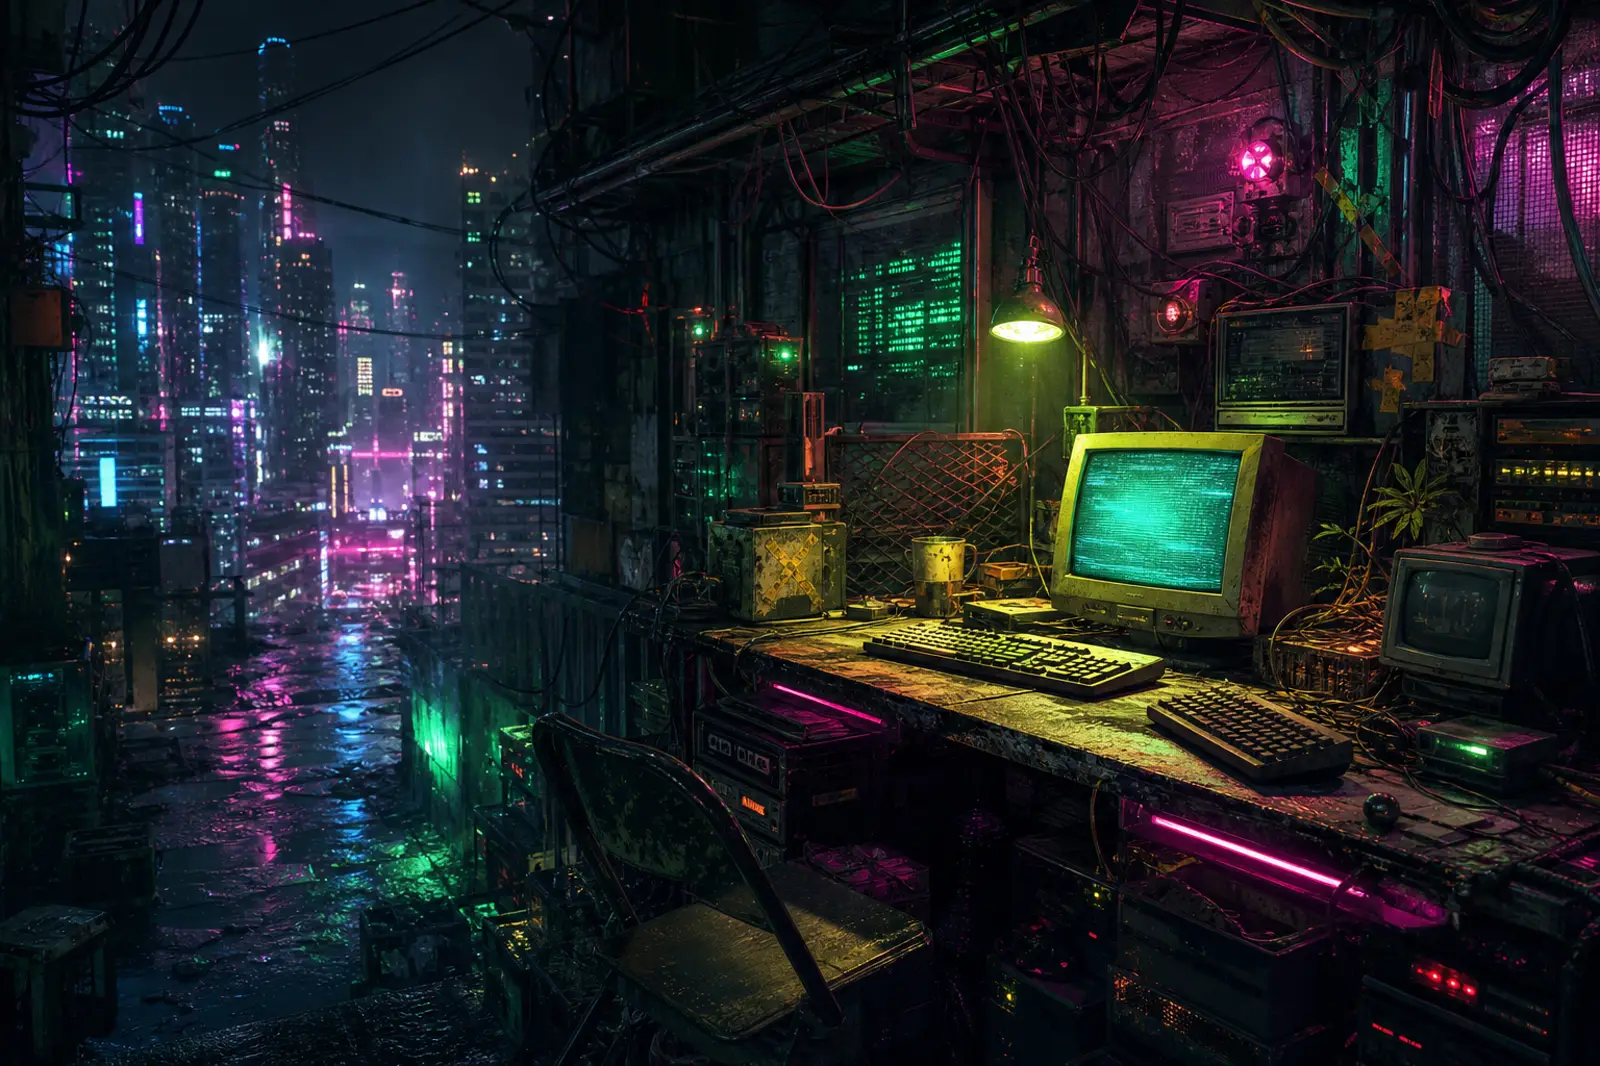
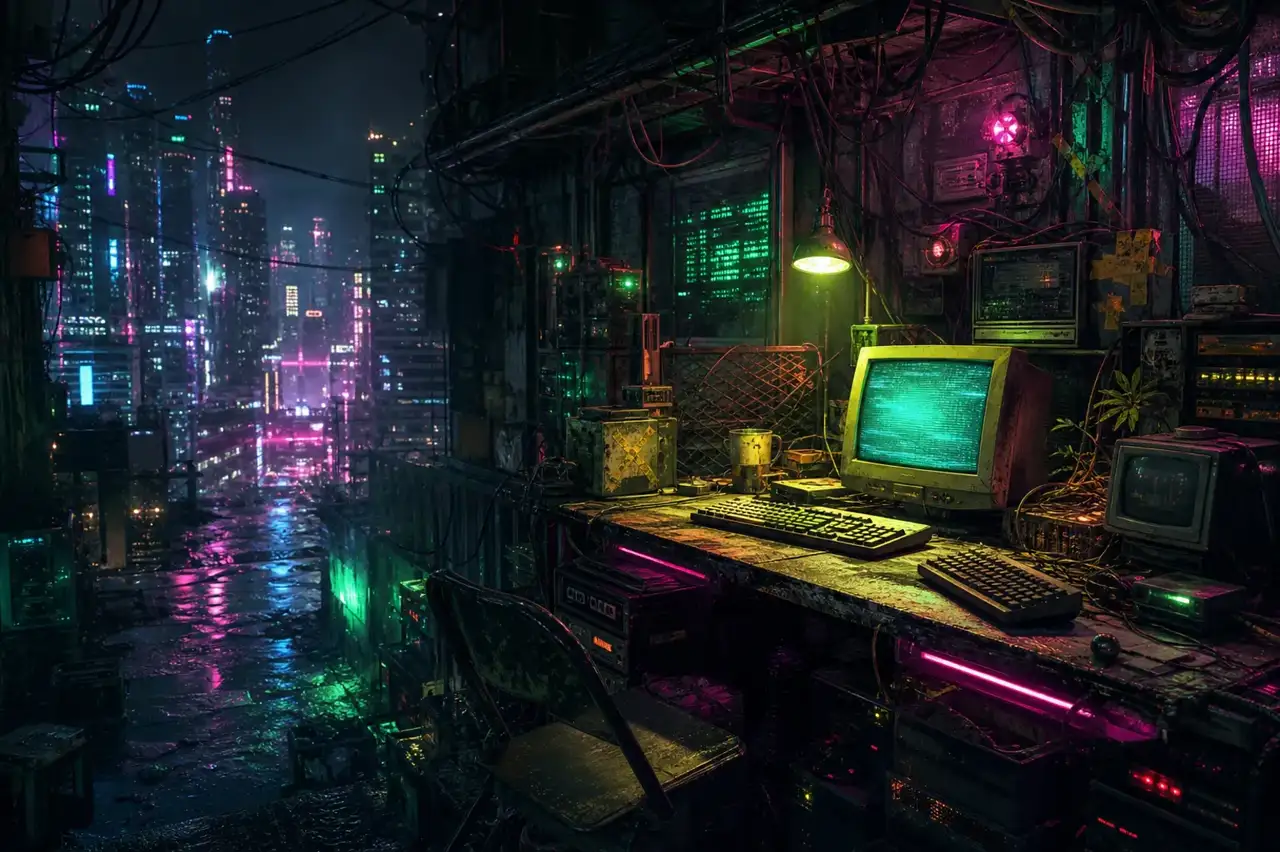
some optimization

Changed region(s): [[0.5312, 0.5798, 0.6875, 0.6408], [0.75, 0.6408, 0.7812, 0.6714]]

diff --git a/app/page.js b/app/page.js
@@ -1,19 +1,3 @@
-"use client";
-
-import { useEffect, useRef, useState } from "react";
-
-const logLines = [
-  "booting TemiNet personal uplink...",
-  "mounting /projects: success, mostly",
-  "scanning abandoned folders: too many",
-  "loading sarcasm module: online",
-  "checking Cloudflare Pages: please clap",
-  "routing bad ideas through neon filter",
-  "warning: confidence exceeds test coverage",
-  "deploy target: static files with delusions",
-  "status: operational enough",
-];
-
 const tickerItems = [
   "signal acquired",
   "deploy gods unimpressed",
@@ -25,95 +9,21 @@ const tickerItems = [
   "coffee dependency unresolved",
 ];
 
+const terminalLines = [
+  "> booting TemiNet personal uplink...",
+  "> mounting /projects: success, mostly",
+  "> loading sarcasm module: online",
+  "> checking Cloudflare Pages: please clap",
+  "> warning: confidence exceeds test coverage",
+  "> status: operational enough",
+];
+
 export default function Home() {
-  const canvasRef = useRef(null);
-  const bootTime = useRef(Date.now());
-  const [year, setYear] = useState("");
-  const [uptime, setUptime] = useState("calculating regret");
-  const [feed, setFeed] = useState([`> ${logLines[0]}`]);
-  const [telemetry, setTelemetry] = useState({ signal: 91, cope: 64, bugs: "??" });
-
-  useEffect(() => {
-    setYear(String(new Date().getFullYear()));
-
-    const uptimeTimer = window.setInterval(() => {
-      const elapsedSeconds = Math.max(0, Math.floor((Date.now() - bootTime.current) / 1000));
-      const minutes = Math.floor(elapsedSeconds / 60);
-      const seconds = String(elapsedSeconds % 60).padStart(2, "0");
-      setUptime(`${minutes}:${seconds} since refresh`);
-    }, 1000);
-
-    let feedIndex = 1;
-    const feedTimer = window.setInterval(() => {
-      const nextLine = `> ${logLines[feedIndex % logLines.length]}`;
-      setFeed((currentFeed) => [...currentFeed.slice(-8), nextLine]);
-      feedIndex += 1;
-    }, 1500);
-
-    const telemetryTimer = window.setInterval(() => {
-      setTelemetry({
-        signal: 88 + Math.floor(Math.random() * 10),
-        cope: 52 + Math.floor(Math.random() * 35),
-        bugs: Math.floor(Math.random() * 9),
-      });
-    }, 1800);
-
-    return () => {
-      window.clearInterval(uptimeTimer);
-      window.clearInterval(feedTimer);
-      window.clearInterval(telemetryTimer);
-    };
-  }, []);
-
-  useEffect(() => {
-    const canvas = canvasRef.current;
-    const context = canvas?.getContext("2d");
-
-    if (!canvas || !context || window.matchMedia("(prefers-reduced-motion: reduce)").matches) {
-      return undefined;
-    }
-
-    let frameId = 0;
-    let rainColumns = [];
-
-    function resizeRain() {
-      const pixelRatio = window.devicePixelRatio || 1;
-      canvas.width = Math.floor(window.innerWidth * pixelRatio);
-      canvas.height = Math.floor(window.innerHeight * pixelRatio);
-      context.setTransform(pixelRatio, 0, 0, pixelRatio, 0, 0);
-
-      const columnCount = Math.ceil(window.innerWidth / 18);
-      rainColumns = Array.from({ length: columnCount }, () => Math.random() * window.innerHeight);
-    }
-
-    function drawRain() {
-      context.fillStyle = "rgba(5, 6, 10, 0.08)";
-      context.fillRect(0, 0, window.innerWidth, window.innerHeight);
-      context.fillStyle = "rgba(184, 255, 61, 0.65)";
-      context.font = "14px Cascadia Mono, Consolas, monospace";
-
-      rainColumns.forEach((y, index) => {
-        const character = Math.random() > 0.5 ? "1" : "0";
-        context.fillText(character, index * 18, y);
-        rainColumns[index] = y > window.innerHeight + 20 ? 0 : y + 18;
-      });
-
-      frameId = window.requestAnimationFrame(drawRain);
-    }
-
-    resizeRain();
-    drawRain();
-    window.addEventListener("resize", resizeRain);
-
-    return () => {
-      window.cancelAnimationFrame(frameId);
-      window.removeEventListener("resize", resizeRain);
-    };
-  }, []);
+  const year = new Date().getFullYear();
 
   return (
     <>
-      <canvas className="data-rain" ref={canvasRef} aria-hidden="true" />
+      <div className="data-rain" aria-hidden="true" />
       <div className="noise" aria-hidden="true" />
       <header className="site-header">
         <a className="brand" href="#top" aria-label="Back to top">
@@ -149,7 +59,7 @@ export default function Home() {
             </div>
             <div className="panel-row">
               <span>uptime</span>
-              <strong>{uptime}</strong>
+              <strong>static, smug</strong>
             </div>
             <div className="panel-row">
               <span>build status</span>
@@ -217,7 +127,9 @@ export default function Home() {
                 A majestic heap of little tools that save five minutes after only four hours of
                 setup. This is called optimization.
               </p>
-              <a href="https://github.com/TemiTheHuntress/website" rel="noreferrer">GitHub</a>
+              <a href="https://github.com/TemiTheHuntress/website" rel="noreferrer">
+                GitHub
+              </a>
             </article>
 
             <article className="project-card">
@@ -237,7 +149,7 @@ export default function Home() {
 
         <section className="section console-section" aria-labelledby="console-title">
           <div className="section-heading">
-            <p className="eyebrow">live console</p>
+            <p className="eyebrow">console</p>
             <h2 id="console-title">The machine says it is fine, which is legally distinct from true.</h2>
           </div>
           <div className="console-grid">
@@ -248,20 +160,20 @@ export default function Home() {
                 <span />
                 <strong>teminet://ops</strong>
               </div>
-              <pre aria-live="polite">{feed.join("\n")}</pre>
+              <pre>{terminalLines.join("\n")}</pre>
             </div>
             <div className="telemetry" aria-label="Site telemetry">
               <div className="metric">
                 <span>signal</span>
-                <strong>{telemetry.signal}%</strong>
+                <strong>94%</strong>
               </div>
               <div className="metric">
                 <span>cope</span>
-                <strong>{telemetry.cope}%</strong>
+                <strong>68%</strong>
               </div>
               <div className="metric">
                 <span>bugs</span>
-                <strong>{telemetry.bugs}</strong>
+                <strong>3</strong>
               </div>
               <div className="meter">
                 <span style={{ "--level": "82%" }} />
@@ -291,7 +203,9 @@ export default function Home() {
           </p>
           <div className="contact-links">
             <a href="mailto:[email redacted]">Email</a>
-            <a href="https://github.com/TemiTheHuntress/website" rel="noreferrer">GitHub</a>
+            <a href="https://github.com/TemiTheHuntress/website" rel="noreferrer">
+              GitHub
+            </a>
           </div>
         </section>
       </main>

diff --git a/app/globals.css b/app/globals.css
@@ -31,7 +31,7 @@ body {
 }
 
 body::before {
-  position: fixed;
+  position: absolute;
   inset: 0;
   z-index: -3;
   content: "";
@@ -41,7 +41,7 @@ body::before {
 }
 
 body::after {
-  position: fixed;
+  position: absolute;
   inset: 0;
   z-index: -2;
   content: "";
@@ -59,10 +59,10 @@ a {
 }
 
 .noise {
-  position: fixed;
+  position: absolute;
   inset: 0;
   z-index: -1;
-  opacity: 0.28;
+  opacity: 0.18;
   pointer-events: none;
   background-image:
     radial-gradient(circle at 20% 30%, rgba(52, 231, 255, 0.09), transparent 16rem),
@@ -71,14 +71,17 @@ a {
 }
 
 .data-rain {
-  position: fixed;
+  position: absolute;
   inset: 0;
   z-index: -1;
   width: 100%;
   height: 100%;
-  opacity: 0.2;
+  opacity: 0.1;
   pointer-events: none;
-  mix-blend-mode: screen;
+  background:
+    repeating-linear-gradient(90deg, transparent 0 16px, rgba(184, 255, 61, 0.16) 16px 17px, transparent 17px 36px),
+    repeating-linear-gradient(180deg, transparent 0 24px, rgba(52, 231, 255, 0.1) 24px 25px, transparent 25px 64px);
+  mask-image: linear-gradient(to bottom, black, transparent 76%);
 }
 
 .site-header {
@@ -92,7 +95,6 @@ a {
   padding: 0.85rem clamp(1rem, 4vw, 4rem);
   border-bottom: 1px solid var(--line);
   background: rgba(5, 6, 10, 0.76);
-  backdrop-filter: blur(18px);
 }
 
 .brand,
@@ -253,9 +255,8 @@ h3 {
   align-self: end;
   padding: 1rem;
   border: 1px solid rgba(52, 231, 255, 0.34);
-  background: var(--panel);
+  background: rgba(10, 14, 22, 0.9);
   box-shadow: var(--shadow);
-  backdrop-filter: blur(16px);
 }
 
 .system-panel::before,
@@ -297,6 +298,8 @@ footer {
   padding: clamp(4rem, 9vw, 8rem) clamp(1rem, 4vw, 4rem);
   border-top: 1px solid var(--line);
   background: rgba(5, 6, 10, 0.78);
+  content-visibility: auto;
+  contain-intrinsic-size: 1px 760px;
 }
 
 .ticker {
@@ -608,6 +611,25 @@ footer {
 @media (prefers-reduced-motion: reduce) {
   html {
     scroll-behavior: auto;
+  }
+
+  .ticker-track,
+  .meter span {
+    animation: none;
+  }
+}
+
+@media (max-width: 700px), (prefers-reduced-data: reduce) {
+  body::before {
+    background:
+      linear-gradient(110deg, rgba(5, 6, 10, 0.88), rgba(5, 6, 10, 0.78)),
+      url("/assets/cyberpunk-desk.webp") center top / 1100px auto no-repeat;
+  }
+
+  .noise,
+  .data-rain,
+  .hero-media {
+    display: none;
   }
 
   .ticker-track,